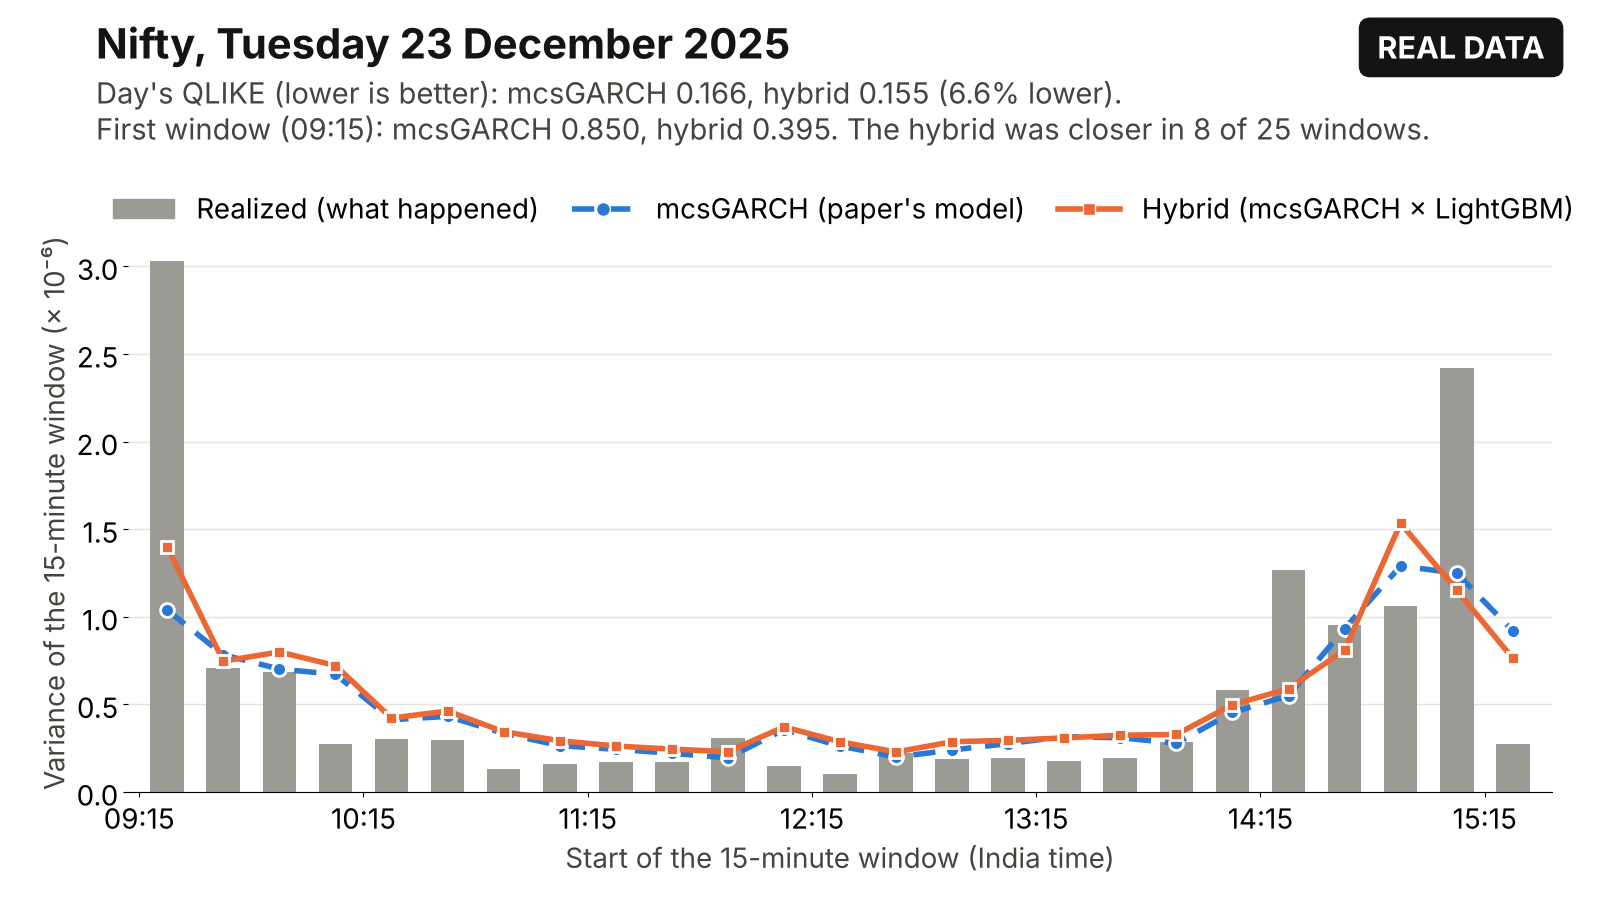
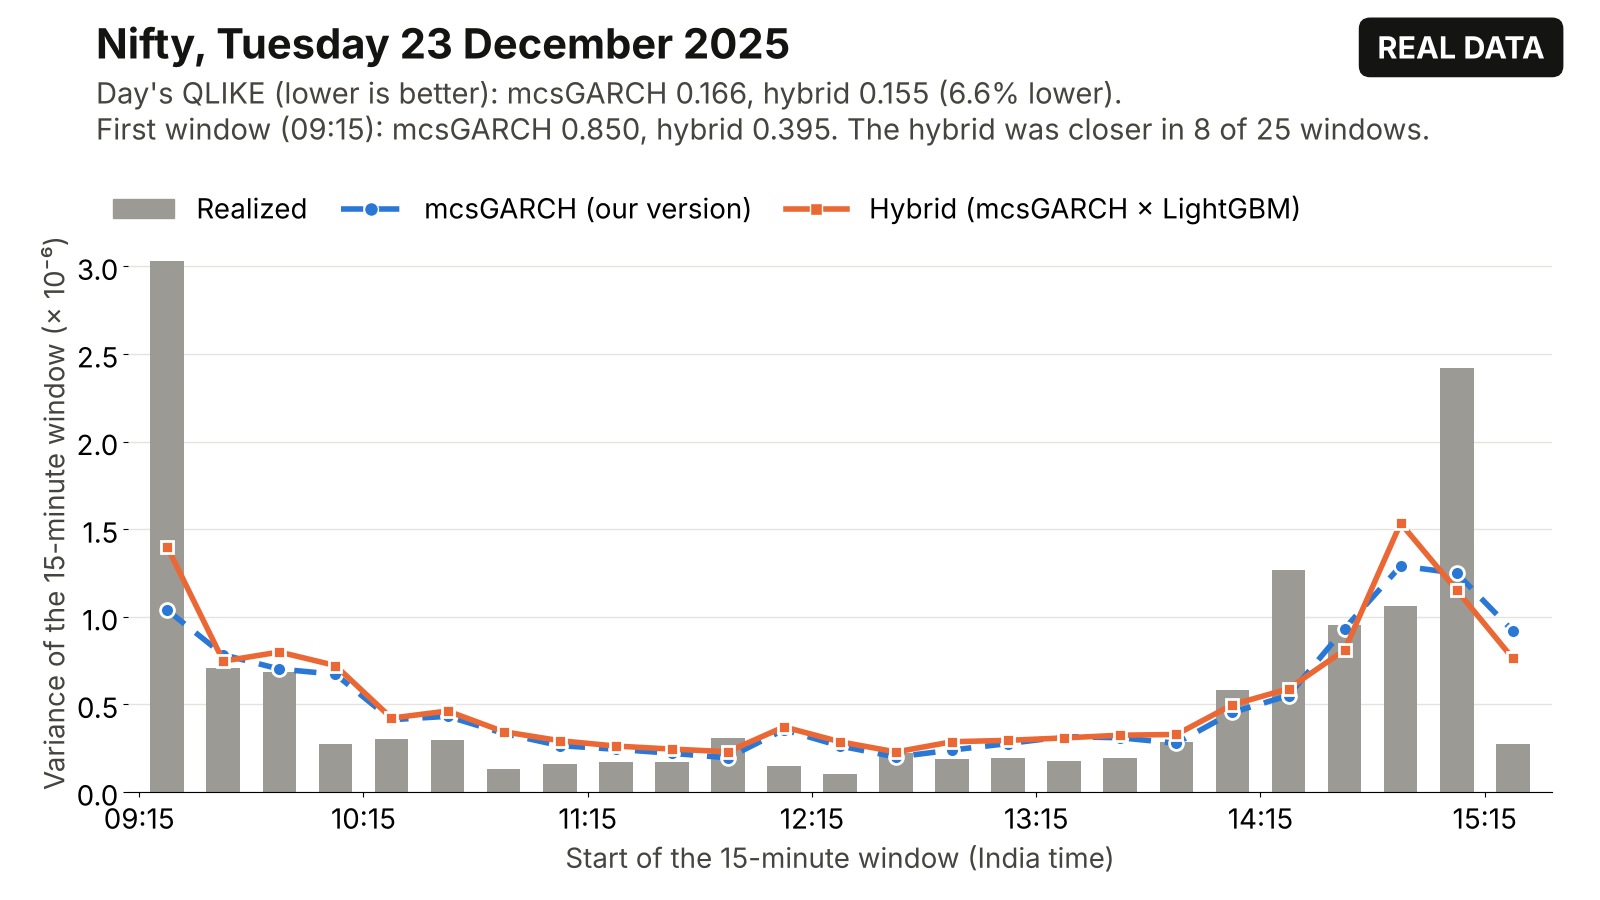
Demo: label the benchmark "mcsGARCH (our version)" on the pages and the chart (it is our implementation, not the paper's specification; P116); demo pages and the deck chart regenerated, no number changed
Claude-Session: https://claude.ai/code/session_01Xu8qaTK8bB4dAjiqK4FTTR

Changed region(s): [[0.1875, 0.2178, 1.0, 0.2489]]

diff --git a/results/demo/demo_nifty_2024-06-04.html b/results/demo/demo_nifty_2024-06-04.html
@@ -64,7 +64,7 @@ code { font-size: 0.9em; }
 <p class="caption" id="caption">General election results day; the count showed the ruling party short of a majority on its own, and the market crashed. Nifty ended the day 5.6% lower (last one-minute price against the day before), and the session was much busier than usual (realized variance 70.8 times the median test day&#x27;s).</p>
 
 <section class="tiles" aria-label="The day's QLIKE">
-  <div class="tile"><div class="lab"><span class="sw mcs"></span>mcsGARCH (the paper's model): day's QLIKE</div>
+  <div class="tile"><div class="lab"><span class="sw mcs"></span>mcsGARCH (our implementation): day's QLIKE</div>
     <div class="val">3.343</div>
     <div class="rank">3rd highest of 792 test days (1st = hardest day)</div></div>
   <div class="tile"><div class="lab"><span class="sw hyb"></span>Hybrid (mcsGARCH × LightGBM correction): day's QLIKE</div>

diff --git a/results/demo/demo_nifty_2025-04-08.html b/results/demo/demo_nifty_2025-04-08.html
@@ -64,7 +64,7 @@ code { font-size: 0.9em; }
 <p class="caption" id="caption">The trading day after the global tariff sell-off of 7 April 2025. Nifty ended the day 1.4% higher (last one-minute price against the day before), and the session was much busier than usual (realized variance 6.9 times the median test day&#x27;s).</p>
 
 <section class="tiles" aria-label="The day's QLIKE">
-  <div class="tile"><div class="lab"><span class="sw mcs"></span>mcsGARCH (the paper's model): day's QLIKE</div>
+  <div class="tile"><div class="lab"><span class="sw mcs"></span>mcsGARCH (our implementation): day's QLIKE</div>
     <div class="val">0.185</div>
     <div class="rank">495th highest of 792 test days (1st = hardest day)</div></div>
   <div class="tile"><div class="lab"><span class="sw hyb"></span>Hybrid (mcsGARCH × LightGBM correction): day's QLIKE</div>

diff --git a/results/demo/demo_nifty_2025-12-23.html b/results/demo/demo_nifty_2025-12-23.html
@@ -64,7 +64,7 @@ code { font-size: 0.9em; }
 <p class="caption" id="caption">A Nifty weekly expiry day (Tuesday expiries, from 1 September 2025). Nifty ended the day almost unchanged, and the session was calmer than usual (realized variance 0.5 times the median test day&#x27;s).</p>
 
 <section class="tiles" aria-label="The day's QLIKE">
-  <div class="tile"><div class="lab"><span class="sw mcs"></span>mcsGARCH (the paper's model): day's QLIKE</div>
+  <div class="tile"><div class="lab"><span class="sw mcs"></span>mcsGARCH (our implementation): day's QLIKE</div>
     <div class="val">0.166</div>
     <div class="rank">570th highest of 792 test days (1st = hardest day)</div></div>
   <div class="tile"><div class="lab"><span class="sw hyb"></span>Hybrid (mcsGARCH × LightGBM correction): day's QLIKE</div>

diff --git a/scripts/demo_forecast_day.py b/scripts/demo_forecast_day.py
@@ -12,7 +12,7 @@ It reads COMMITTED files only and refits nothing:
 * ``<run>/forecasts_next15.csv`` (required), ``forecasts_next30.csv`` and ``forecasts_last_hour.csv``
   (optional): one row per (test day, anchor minute) with the realized variance ``y`` of the window
   that starts at the anchor and every model's forecast of it, made at the anchor. The two models
-  shown are ``mcsgarch`` (the anchor paper's model) and ``hybrid_base`` (mcsGARCH times a LightGBM
+  shown are ``mcsgarch`` (our implementation of the anchor paper's model; see docs/P116_BENCHMARK_AS_PRINTED.md) and ``hybrid_base`` (mcsGARCH times a LightGBM
   correction), the pair behind the headline 5.8% and 7.6% gains.
 * ``<run>/daily_market.csv`` (optional): the last one-minute price of each day, for the caption.
 * ``results/p106_gain_decomposition/shares.csv``, ``contributions.csv`` and ``run_info.json``
@@ -700,7 +700,7 @@ def build_page(date: str, index: str, run: Path, f: pd.DataFrame, daily: pd.Data
     gain_word = "lower" if r["gain_pct"] >= 0 else "higher"
     tiles = f"""
 <section class="tiles" aria-label="The day's QLIKE">
-  <div class="tile"><div class="lab"><span class="sw mcs"></span>mcsGARCH (the paper's model): day's QLIKE</div>
+  <div class="tile"><div class="lab"><span class="sw mcs"></span>mcsGARCH (our implementation): day's QLIKE</div>
     <div class="val">{fmt_q(r['l_mcs'])}</div>
     <div class="rank">{ordinal(rank_m)} highest of {nd:,} test days (1st = hardest day)</div></div>
   <div class="tile"><div class="lab"><span class="sw hyb"></span>Hybrid (mcsGARCH \u00d7 LightGBM correction): day's QLIKE</div>
@@ -865,9 +865,9 @@ def write_png(day: pd.DataFrame, date: str, summary: dict, path: Path, label: st
     ax.grid(axis="y", color=C_GRID, lw=1, zorder=0)
     for s in ("top", "right", "left"):
         ax.spines[s].set_visible(False)
-    handles = [Patch(color=C_REAL, label="Realized (what happened)"),
+    handles = [Patch(color=C_REAL, label="Realized"),
                Line2D([], [], color=C_MCS, lw=4, ls=(0, (4, 2.5)), marker="o", ms=10, mec="white",
-                      label="mcsGARCH (paper's model)"),
+                      label="mcsGARCH (our version)"),
                Line2D([], [], color=C_HYB, lw=4, marker="s", ms=9, mec="white",
                       label="Hybrid (mcsGARCH × LightGBM)")]
     fig.legend(handles=handles, loc="upper left", fontsize=20, frameon=False, ncol=3,
